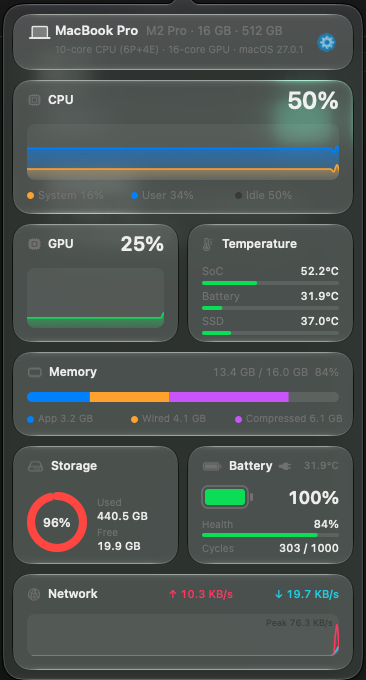
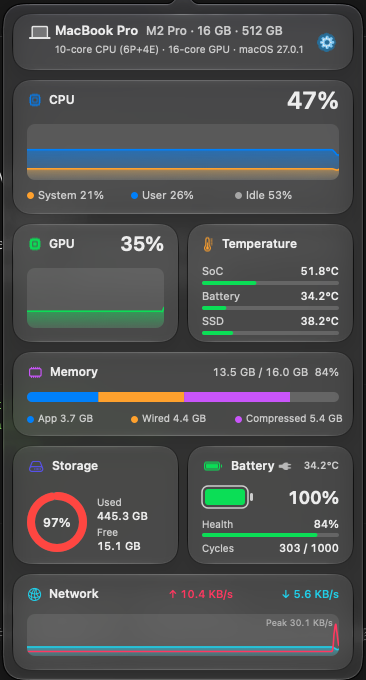
Panel: raise contrast on Liquid Glass
- Card title icons tinted per section (CPU blue, GPU green, temperature
  orange, memory purple, storage indigo, battery green, network teal)
- Secondary / tertiary text uses labelColor at 72% / 50% instead of the
  system secondary colors, which wash out on glass
- Cards use .regular glass instead of .clear so the background blurs
  more behind text
- Darker chart backgrounds and bar / ring tracks
- docs/panel.png updated

diff --git a/main.swift b/main.swift
@@ -564,6 +564,12 @@ final class StatsModel {
 }
 
 // MARK: - 绘制工具
+extension NSColor {
+    /// 玻璃上的次要文字：比系统 secondaryLabelColor 更实，保证对比度
+    static var glassSecondary: NSColor { NSColor.labelColor.withAlphaComponent(0.72) }
+    static var glassTertiary: NSColor { NSColor.labelColor.withAlphaComponent(0.5) }
+}
+
 enum Draw {
     static func text(_ s: String, _ p: NSPoint, size: CGFloat = 12, weight: NSFont.Weight = .regular,
                      color: NSColor = .labelColor, right: Bool = false, mono: Bool = false) {
@@ -582,8 +588,8 @@ enum Draw {
     }
 
     /// 卡片标题：图标 + 名称
-    static func title(_ icon: String, _ name: String, in w: CGFloat) {
-        let iw = symbol(icon, NSPoint(x: 14, y: 12))
+    static func title(_ icon: String, _ name: String, in w: CGFloat, tint: NSColor = .labelColor) {
+        let iw = symbol(icon, NSPoint(x: 14, y: 12), size: 13, color: tint)
         text(name, NSPoint(x: 14 + max(iw, 14) + 6, y: 12), size: 12, weight: .semibold)
     }
 
@@ -594,7 +600,7 @@ enum Draw {
 
     static func bar(_ r: NSRect, _ f: Double, _ color: NSColor) {
         let rad = r.height / 2
-        NSColor.labelColor.withAlphaComponent(0.1).setFill()
+        NSColor.labelColor.withAlphaComponent(0.16).setFill()
         NSBezierPath(roundedRect: r, xRadius: rad, yRadius: rad).fill()
         guard f > 0.005 else { return }
         color.setFill()
@@ -634,7 +640,7 @@ enum Draw {
     }
 
     static func chartBackground(_ r: NSRect) {
-        NSColor.labelColor.withAlphaComponent(0.05).setFill()
+        NSColor.labelColor.withAlphaComponent(0.09).setFill()
         NSBezierPath(roundedRect: r, xRadius: 8, yRadius: 8).fill()
     }
 }
@@ -695,7 +701,7 @@ final class PanelController: NSObject, NSPopoverDelegate {
             let frame = NSRect(x: M + x, y: M + H - top - h, width: w, height: h)
             let glass = NSGlassEffectView(frame: frame)
             glass.cornerRadius = 18
-            glass.style = .clear
+            glass.style = .regular
             glassHolder.addSubview(glass)
             let card = CardView(frame: frame)
             card.drawer = d
@@ -705,7 +711,7 @@ final class PanelController: NSObject, NSPopoverDelegate {
                 let b = NSButton(image: NSImage(systemSymbolName: "gearshape.fill", accessibilityDescription: "Settings")!,
                                  target: self, action: #selector(settingsClicked(_:)))
                 b.isBordered = false
-                b.contentTintColor = .secondaryLabelColor
+                b.contentTintColor = .labelColor
                 b.frame = NSRect(x: w - 38, y: 16, width: 24, height: 24)
                 card.addSubview(b)
             }
@@ -763,29 +769,29 @@ final class PanelController: NSObject, NSPopoverDelegate {
         Draw.symbol(icon, NSPoint(x: 14, y: 10), size: 15, color: .labelColor)
         Draw.text(spec.model, NSPoint(x: 42, y: 8), size: 13, weight: .semibold)
         let mw = NSAttributedString(string: spec.model, attributes: [.font: NSFont.systemFont(ofSize: 13, weight: .semibold)]).size().width
-        Draw.text(spec.summary, NSPoint(x: 42 + mw + 8, y: 9), size: 12, weight: .medium, color: .secondaryLabelColor)
-        Draw.text(spec.detail, NSPoint(x: 42, y: 29), size: 10, color: .secondaryLabelColor)
+        Draw.text(spec.summary, NSPoint(x: 42 + mw + 8, y: 9), size: 12, weight: .medium, color: .glassSecondary)
+        Draw.text(spec.detail, NSPoint(x: 42, y: 29), size: 10, color: .glassSecondary)
     }
 
     private func drawCPU(_ w: CGFloat) {
         let m = model
-        Draw.title("cpu", "CPU", in: w)
+        Draw.title("cpu", "CPU", in: w, tint: .systemBlue)
         Draw.text(Draw.pct(m.v("cpu")), NSPoint(x: w - 14, y: 6), size: 24, weight: .semibold, right: true, mono: true)
         let chart = NSRect(x: 14, y: 44, width: w - 28, height: 56)
         Draw.chartBackground(chart)
         Draw.area(chart, m.cpuHistory.map { $0.system + $0.user }, scroll: m.scroll, color: .systemBlue)
         Draw.area(chart, m.cpuHistory.map { $0.system }, scroll: m.scroll, color: .systemOrange)
         var x: CGFloat = 14
-        for (name, key, c) in [("System", "sys", NSColor.systemOrange), ("User", "user", .systemBlue), ("Idle", "idle", .tertiaryLabelColor)] {
+        for (name, key, c) in [("System", "sys", NSColor.systemOrange), ("User", "user", .systemBlue), ("Idle", "idle", .glassTertiary)] {
             c.setFill(); NSBezierPath(ovalIn: NSRect(x: x, y: 112, width: 7, height: 7)).fill()
-            Draw.text("\(name) \(Draw.pct(m.v(key)))", NSPoint(x: x + 11, y: 108), size: 11, color: .secondaryLabelColor, mono: true)
+            Draw.text("\(name) \(Draw.pct(m.v(key)))", NSPoint(x: x + 11, y: 108), size: 11, color: .glassSecondary, mono: true)
             x += (w - 28) / 3
         }
     }
 
     private func drawGPU(_ w: CGFloat) {
         let m = model
-        Draw.title("cpu.fill", "GPU", in: w)
+        Draw.title("cpu.fill", "GPU", in: w, tint: .systemGreen)
         Draw.text(m.gpu == nil ? "--" : Draw.pct(m.v("gpu")), NSPoint(x: w - 14, y: 8), size: 20, weight: .semibold, right: true, mono: true)
         let chart = NSRect(x: 14, y: 44, width: w - 28, height: 60)
         Draw.chartBackground(chart)
@@ -794,11 +800,11 @@ final class PanelController: NSObject, NSPopoverDelegate {
 
     private func drawTemps(_ w: CGFloat) {
         let m = model
-        Draw.title("thermometer.medium", L("温度", "Temperature"), in: w)
+        Draw.title("thermometer.medium", L("温度", "Temperature"), in: w, tint: .systemOrange)
         var y: CGFloat = 40
         for (name, key, has) in [(L("芯片", "SoC"), "tSoc", m.temps.soc != nil), (L("电池", "Battery"), "tBat", m.temps.battery != nil), ("SSD", "tSsd", m.temps.ssd != nil)] {
             let c = m.v(key)
-            Draw.text(name, NSPoint(x: 14, y: y), size: 11, color: .secondaryLabelColor)
+            Draw.text(name, NSPoint(x: 14, y: y), size: 11, color: .glassSecondary)
             Draw.text(has ? TempUnit.format(c) : "--", NSPoint(x: w - 14, y: y), size: 11, weight: .medium, right: true, mono: true)
             Draw.bar(NSRect(x: 14, y: y + 17, width: w - 28, height: 4), has ? (c - 20) / 80 : 0, Draw.tempColor(c))
             y += 25
@@ -807,12 +813,12 @@ final class PanelController: NSObject, NSPopoverDelegate {
 
     private func drawMemory(_ w: CGFloat) {
         let m = model
-        Draw.title("memorychip", L("内存", "Memory"), in: w)
+        Draw.title("memorychip", L("内存", "Memory"), in: w, tint: .systemPurple)
         Draw.text("\(SystemInfo.gb(m.v("memUsed"))) / \(SystemInfo.gb(m.memory.total))  \(Draw.pct(m.v("mem")))",
-                  NSPoint(x: w - 14, y: 13), size: 11, color: .secondaryLabelColor, right: true, mono: true)
+                  NSPoint(x: w - 14, y: 13), size: 11, color: .glassSecondary, right: true, mono: true)
         let bar = NSRect(x: 14, y: 40, width: w - 28, height: 10)
         let shape = NSBezierPath(roundedRect: bar, xRadius: 5, yRadius: 5)
-        NSColor.labelColor.withAlphaComponent(0.1).setFill(); shape.fill()
+        NSColor.labelColor.withAlphaComponent(0.16).setFill(); shape.fill()
         NSGraphicsContext.saveGraphicsState(); shape.addClip()
         var x = bar.minX
         for (k, c) in [("app", NSColor.systemBlue), ("wired", .systemOrange), ("comp", .systemPurple)] {
@@ -824,42 +830,42 @@ final class PanelController: NSObject, NSPopoverDelegate {
         var lx: CGFloat = 14
         for (name, v, c) in [("App", m.memory.app, NSColor.systemBlue), (L("联动", "Wired"), m.memory.wired, .systemOrange), (L("压缩", "Compressed"), m.memory.compressed, .systemPurple)] {
             c.setFill(); NSBezierPath(ovalIn: NSRect(x: lx, y: 64, width: 7, height: 7)).fill()
-            Draw.text("\(name) \(SystemInfo.gb(v))", NSPoint(x: lx + 11, y: 60), size: 10, color: .secondaryLabelColor, mono: true)
+            Draw.text("\(name) \(SystemInfo.gb(v))", NSPoint(x: lx + 11, y: 60), size: 10, color: .glassSecondary, mono: true)
             lx += (w - 28) / 3
         }
     }
 
     private func drawStorage(_ w: CGFloat) {
         let m = model
-        Draw.title("internaldrive", L("存储", "Storage"), in: w)
+        Draw.title("internaldrive", L("存储", "Storage"), in: w, tint: .systemIndigo)
         guard let st = m.storage else { return }
         let f = m.v("disk")
         let center = NSPoint(x: 44, y: 76), r: CGFloat = 26
         let ring = NSBezierPath(); ring.lineWidth = 8
         ring.appendArc(withCenter: center, radius: r, startAngle: 0, endAngle: 360)
-        NSColor.labelColor.withAlphaComponent(0.1).setStroke(); ring.stroke()
+        NSColor.labelColor.withAlphaComponent(0.16).setStroke(); ring.stroke()
         let arc = NSBezierPath(); arc.lineWidth = 8; arc.lineCapStyle = .round
         arc.appendArc(withCenter: center, radius: r, startAngle: -90, endAngle: -90 + 360 * CGFloat(f), clockwise: false)
         Draw.level(f).setStroke(); arc.stroke()
         let s = NSAttributedString(string: Draw.pct(f), attributes: [.font: NSFont.monospacedDigitSystemFont(ofSize: 12, weight: .semibold), .foregroundColor: NSColor.labelColor])
         s.draw(at: NSPoint(x: center.x - s.size().width / 2, y: center.y - s.size().height / 2))
-        Draw.text(L("已用", "Used"), NSPoint(x: 84, y: 50), size: 10, color: .secondaryLabelColor)
+        Draw.text(L("已用", "Used"), NSPoint(x: 84, y: 50), size: 10, color: .glassSecondary)
         Draw.text(SystemInfo.gb(st.used), NSPoint(x: 84, y: 63), size: 11, weight: .medium, mono: true)
-        Draw.text(L("可用", "Free"), NSPoint(x: 84, y: 80), size: 10, color: .secondaryLabelColor)
+        Draw.text(L("可用", "Free"), NSPoint(x: 84, y: 80), size: 10, color: .glassSecondary)
         Draw.text(SystemInfo.gb(st.total - st.used), NSPoint(x: 84, y: 93), size: 11, weight: .medium, mono: true)
     }
 
     private func drawBattery(_ w: CGFloat) {
         let m = model
-        Draw.title("battery.100", L("电池", "Battery"), in: w)
+        Draw.title("battery.100", L("电池", "Battery"), in: w, tint: .systemGreen)
         guard let b = m.battery else {
-            Draw.text(L("无电池", "No battery"), NSPoint(x: 14, y: 44), size: 11, color: .secondaryLabelColor); return
+            Draw.text(L("无电池", "No battery"), NSPoint(x: 14, y: 44), size: 11, color: .glassSecondary); return
         }
         let f = m.v("bat")
         let body = NSRect(x: 14, y: 40, width: 46, height: 22)
         let outline = NSBezierPath(roundedRect: body, xRadius: 6, yRadius: 6)
-        outline.lineWidth = 1.5; NSColor.secondaryLabelColor.setStroke(); outline.stroke()
-        NSColor.secondaryLabelColor.setFill()
+        outline.lineWidth = 1.5; NSColor.glassSecondary.setStroke(); outline.stroke()
+        NSColor.glassSecondary.setFill()
         NSBezierPath(roundedRect: NSRect(x: body.maxX + 2, y: body.midY - 4, width: 3, height: 8), xRadius: 1.5, yRadius: 1.5).fill()
         (b.percent <= 20 ? NSColor.systemRed : (b.percent <= 40 ? .systemYellow : .systemGreen)).setFill()
         NSBezierPath(roundedRect: NSRect(x: body.minX + 3, y: body.minY + 3, width: (body.width - 6) * CGFloat(f), height: body.height - 6),
@@ -868,23 +874,23 @@ final class PanelController: NSObject, NSPopoverDelegate {
         Draw.text(Draw.pct(f), NSPoint(x: w - 14, y: 41), size: 18, weight: .semibold, right: true, mono: true)
         // 右上角：电池温度；标题旁：供电状态小图标（充电 = 闪电，接电源 = 插头）
         if m.temps.battery != nil {
-            Draw.text(TempUnit.format(m.v("tBat")), NSPoint(x: w - 14, y: 13), size: 10, weight: .medium, color: .secondaryLabelColor, right: true, mono: true)
+            Draw.text(TempUnit.format(m.v("tBat")), NSPoint(x: w - 14, y: 13), size: 10, weight: .medium, color: .glassSecondary, right: true, mono: true)
         }
         let titleW = 14 + 22 + 6 + NSAttributedString(string: L("电池", "Battery"), attributes: [.font: NSFont.systemFont(ofSize: 12, weight: .semibold)]).size().width
         if b.state == "charging" { Draw.symbol("bolt.fill", NSPoint(x: titleW + 4, y: 12), size: 10, color: .systemYellow) }
-        else if b.state == "ac"  { Draw.symbol("powerplug.fill", NSPoint(x: titleW + 4, y: 12), size: 10, color: .secondaryLabelColor) }
+        else if b.state == "ac"  { Draw.symbol("powerplug.fill", NSPoint(x: titleW + 4, y: 12), size: 10, color: .glassSecondary) }
         if let h = m.health {
-            Draw.text(L("健康度", "Health"), NSPoint(x: 14, y: 72), size: 10, color: .secondaryLabelColor)
+            Draw.text(L("健康度", "Health"), NSPoint(x: 14, y: 72), size: 10, color: .glassSecondary)
             Draw.text(Draw.pct(m.v("health")), NSPoint(x: w - 14, y: 71), size: 11, weight: .medium, right: true, mono: true)
             Draw.bar(NSRect(x: 14, y: 87, width: w - 28, height: 4), m.v("health"), m.v("health") >= 0.8 ? .systemGreen : (m.v("health") >= 0.6 ? .systemYellow : .systemRed))
-            Draw.text(L("循环次数", "Cycles"), NSPoint(x: 14, y: 96), size: 10, color: .secondaryLabelColor)
+            Draw.text(L("循环次数", "Cycles"), NSPoint(x: 14, y: 96), size: 10, color: .glassSecondary)
             Draw.text("\(h.cycles) / \(h.designCycles)", NSPoint(x: w - 14, y: 95), size: 11, weight: .medium, right: true, mono: true)
         }
     }
 
     private func drawNetwork(_ w: CGFloat) {
         let m = model
-        Draw.title("network", L("网络", "Network"), in: w)
+        Draw.title("network", L("网络", "Network"), in: w, tint: .systemTeal)
         Draw.text("↓ " + NetMonitor.format(m.v("down")), NSPoint(x: w - 14, y: 13), size: 11, weight: .medium, color: .systemTeal, right: true, mono: true)
         Draw.text("↑ " + NetMonitor.format(m.v("up")), NSPoint(x: w - 120, y: 13), size: 11, weight: .medium, color: .systemPink, right: true, mono: true)
         let chart = NSRect(x: 14, y: 40, width: w - 28, height: 42)
@@ -892,7 +898,7 @@ final class PanelController: NSObject, NSPopoverDelegate {
         let peak = max(m.netHistory.map { max($0.up, $0.down) }.max() ?? 0, 10 * 1024)
         Draw.area(chart, m.netHistory.map { $0.down / peak }, scroll: m.scroll, color: .systemTeal)
         Draw.area(chart, m.netHistory.map { $0.up / peak }, scroll: m.scroll, color: .systemPink, line: true)
-        Draw.text(L("峰值 ", "Peak ") + NetMonitor.format(peak), NSPoint(x: chart.maxX - 6, y: chart.minY + 3), size: 9, color: .tertiaryLabelColor, right: true, mono: true)
+        Draw.text(L("峰值 ", "Peak ") + NetMonitor.format(peak), NSPoint(x: chart.maxX - 6, y: chart.minY + 3), size: 9, color: .glassTertiary, right: true, mono: true)
     }
 }
 
